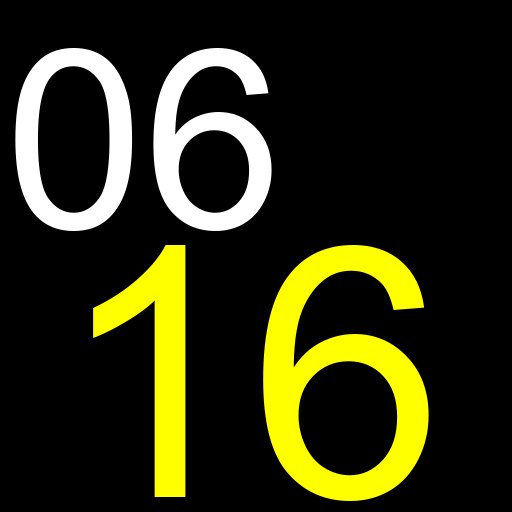
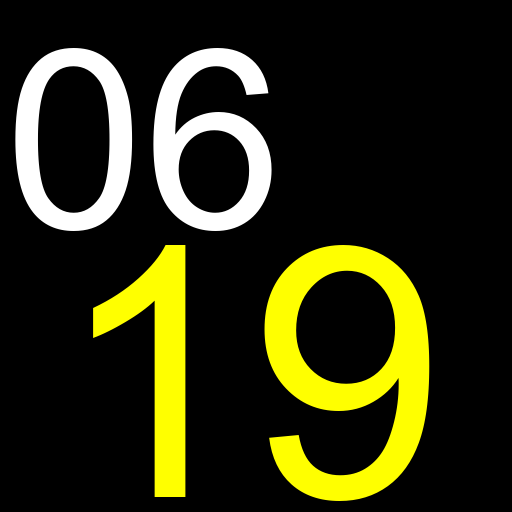
version: 0.16 ~ 2024-06-19 15:20:07:076907

diff --git a/__version__.py b/__version__.py
@@ -1,1 +1,1 @@
-version = "0.15"
+version = "0.16"
